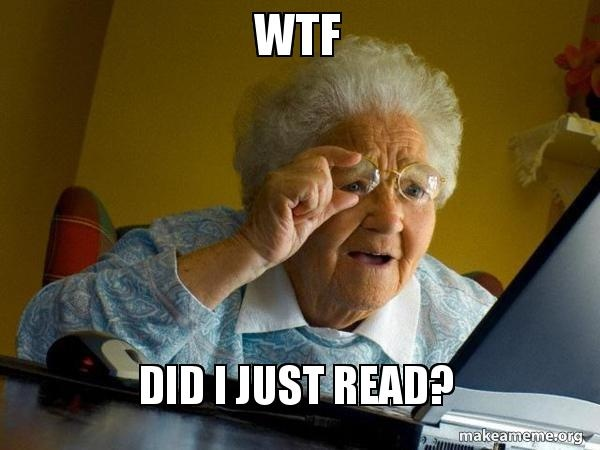
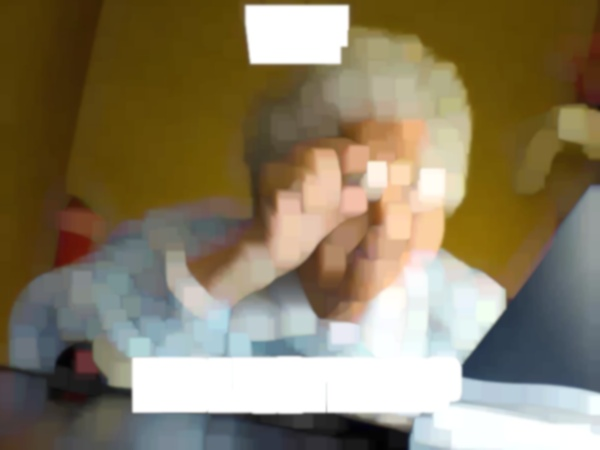
log path

diff --git a/MEES/src/main/java/com/company/imagefilter/Dilate.java b/MEES/src/main/java/com/company/imagefilter/Dilate.java
@@ -10,12 +10,12 @@ import static org.bytedeco.opencv.global.opencv_imgproc.getStructuringElement;
 public class Dilate extends Filter {
    // public Mat filterDilate(Mat image, Log l) throws JavaCVHelperException {
         @Override
-        Mat process(Mat image, int args) throws JavaCVHelperException {
+        Mat process(Mat image, int args, String file) throws JavaCVHelperException {
 
             Mat result = image.clone();
             Mat element = getStructuringElement(Imgproc.MORPH_RECT, new Size(2 * args + 1, 2 * args + 1));
             dilate(image, result, element);
-            App.l.Log(" image " + image + "\n" + "filtre : " + Dilate.class.getSimpleName() + "\n");
+            App.l.Log(" image " + file + "\n" + "filtre : " + Dilate.class.getSimpleName() + "\n");
 
             if (result == null) {
                 throw new JavaCVHelperException("la dilatation ne marche pas");

diff --git a/MEES/src/main/java/com/company/imagefilter/Blur.java b/MEES/src/main/java/com/company/imagefilter/Blur.java
@@ -10,12 +10,11 @@ public class Blur extends Filter  {
 //
 
     @Override
-    Mat process(Mat image, int args) throws JavaCVHelperException {
-            int size = 21;
+    Mat process(Mat image, int args, String file) throws JavaCVHelperException {
             Mat result = image.clone();
-            GaussianBlur(image, result, new Size(size, size), 0);
+            GaussianBlur(image, result, new Size(args, args), 0);
 
-            App.l.Log(" image " + image + "\n" + "filtre : " + Blur.class.getSimpleName() + "\n");
+            App.l.Log(" image " + file + "\n" + "filtre : " + Blur.class.getSimpleName() + "\n");
 
             if (result == null) {
                 throw new JavaCVHelperException("le flou ne marche pas");

diff --git a/MEES/src/main/java/com/company/imagefilter/App.java b/MEES/src/main/java/com/company/imagefilter/App.java
@@ -27,7 +27,7 @@ public class App {
         File directory = new File(file);
         File outputDir = new File(output);
         outputDir.mkdirs();
-        int argc = 0;
+        int argc = 5;
 
         if (directory.isDirectory())
         {
@@ -70,7 +70,7 @@ public class App {
                             try {
 
                                 for (Filter f : filterList) {
-                                    image = f. process(image, argc);
+                                    image = f. process(image, argc, String.valueOf(listFile[i]));
                                 }
 
                                 // Mat result = bw.filterGrayscale(image, l);

diff --git a/MEES/src/main/java/com/company/imagefilter/BlackAndWhite.java b/MEES/src/main/java/com/company/imagefilter/BlackAndWhite.java
@@ -19,11 +19,11 @@ public class BlackAndWhite extends Filter {
 
 
     @Override
-    Mat process(Mat image, int args) throws JavaCVHelperException {
+    Mat process(Mat image, int args, String file) throws JavaCVHelperException {
         Mat result = new Mat(image.rows(), image.cols(), CvType.CV_8UC3);
         cvtColor(image, result, Imgproc.COLOR_RGB2GRAY);
 
-        App.l.Log(" image " + image + "\n" + "filtre : " + BlackAndWhite.class.getSimpleName() + "\n");
+        App.l.Log(" image " + file + "\n" + "filtre : " + BlackAndWhite.class.getSimpleName() + "\n");
 
 
         if (result == null) {

diff --git a/MEES/src/main/java/com/company/imagefilter/Filter.java b/MEES/src/main/java/com/company/imagefilter/Filter.java
@@ -4,7 +4,7 @@ import org.bytedeco.opencv.global.opencv_imgcodecs;
 import org.bytedeco.opencv.opencv_core.Mat;
 
 public abstract  class Filter {
-   abstract Mat process (Mat image, int args) throws JavaCVHelperException;
+   abstract Mat process (Mat image, int args, String file) throws JavaCVHelperException;
 //        String filename = "toModificate/index.jpg";
 //        Mat image = opencv_imgcodecs.imread(filename);
 //        BlackAndWhite bw = new BlackAndWhite();
